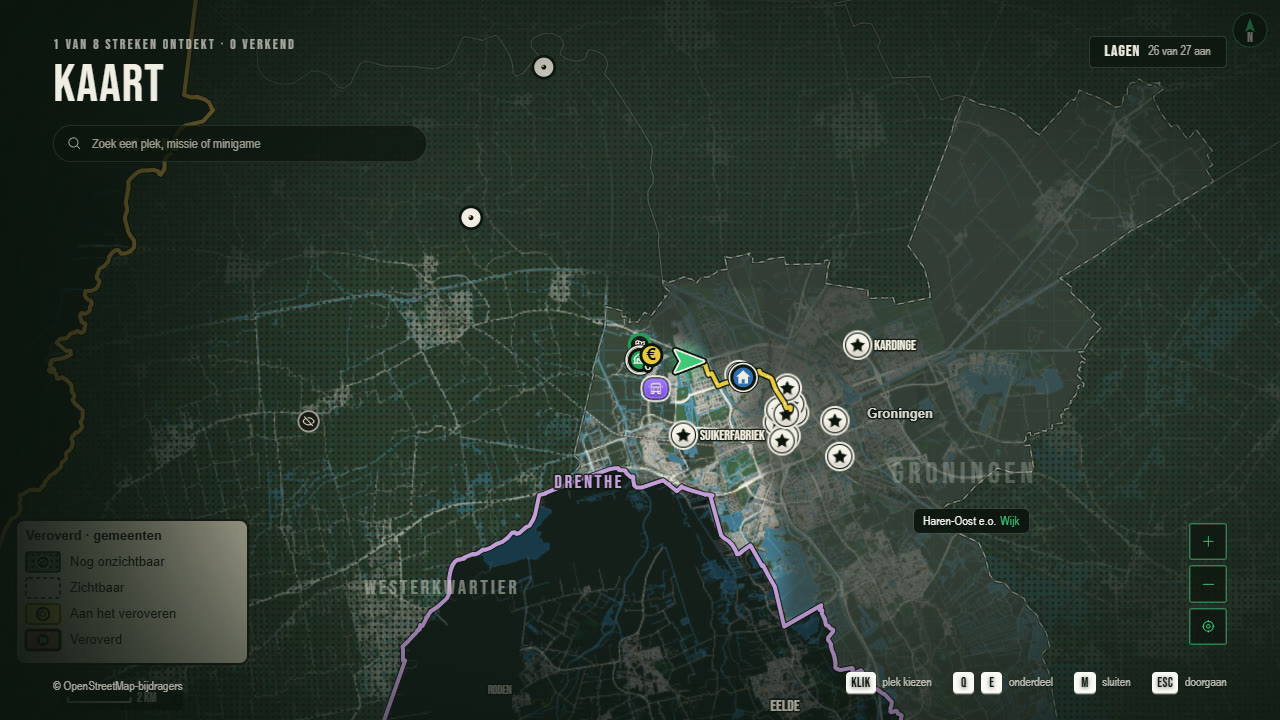
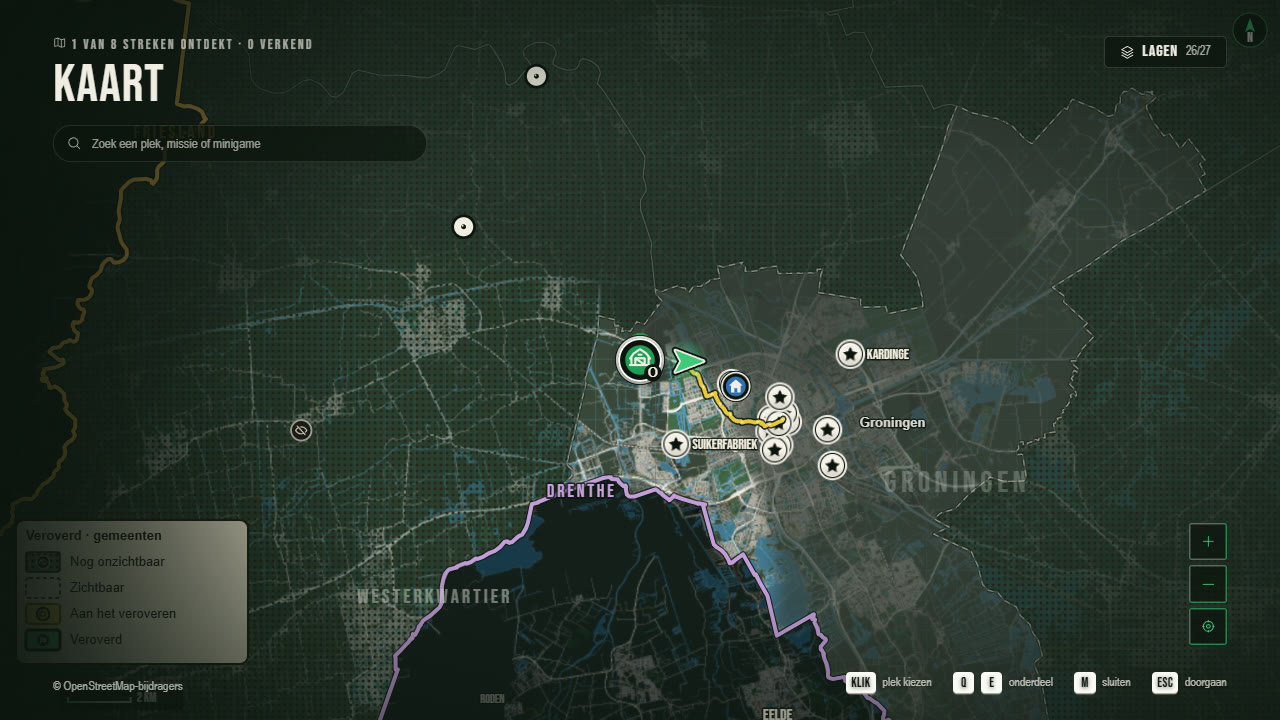
Farming: beelden van de grotere pin op twee uitgezoomde niveaus (Refs #985)

diff --git a/docs/FARMING-SPEELRONDE-20-11.md b/docs/FARMING-SPEELRONDE-20-11.md
@@ -46,7 +46,7 @@ tussen de stappen) is dus niet gespeeld. De beelden staan in `docs/beeld-20-11/f
 | HUD-strook, trekker met werktuig en tijdens het ploegen (met de minikaart en de pin van je veld) | `farming-trekker-gekoppeld.jpg`, `farming-hud-tijdens-ploegen.jpg` |
 | Paneel Perceel, één kaart met lus en groeibalk | `farming-paneel-perceel-rijp.jpg` |
 | Kaart dichtbij in vier standen (zoom 24) | `farming-kaart-geploegd.jpg`, `-groeit`, `-rijp`, `-stoppel` |
-| Kaart op middenzoom (zoom 3) en ver uitgezoomd (de provincie): de pin blijft staan | `farming-kaart-midden.jpg`, `farming-kaart-ver.jpg` |
+| Kaart op middenzoom (zoom 3) en twee keer ver uitgezoomd (provincie en woonplaatsen): de pin is ~34 px, met witte rand en schaduw, bovenop alle andere pins | `farming-kaart-midden.jpg`, `farming-kaart-ver.jpg`, `farming-kaart-ver-2.jpg` |
 
 Kritisch nagekeken: de HUD-strook staat nu vrij van het doel en de straatkaart (eerst erover); de meetlat naast de paal is op de paalbeelden klein en alleen goed te zien als je er dichtbij
 staat; de pin bij het veld ligt op middenzoom boven je machines (T) en op de provinciekaart tussen andere pictogrammen (een bushalte en de munt van een bijbaan), maar valt niet weg; de
